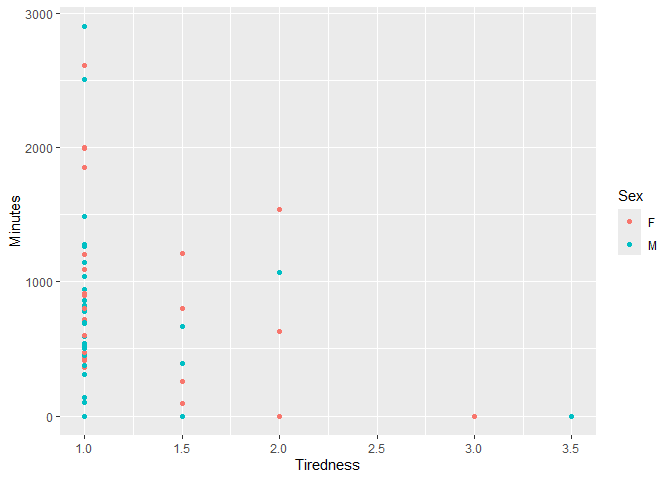
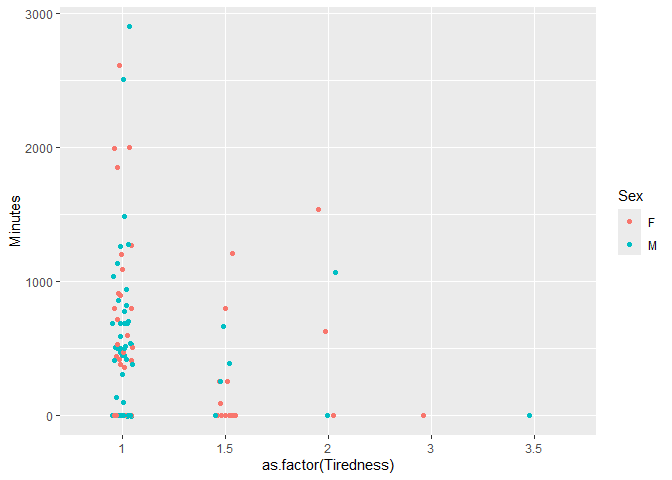
Challenge 10 Submission -- knit files now included.

diff --git a/challenges/c10-islands-pt2-assignment.md b/challenges/c10-islands-pt2-assignment.md
@@ -115,8 +115,8 @@ outcome of a measurement (e.g., drinking coffee before taking a test),
 that’s called an *experimental study*. You need to decide whether your
 study is observational or experimental.
 
-- This is an observational study were we ask how many mintutes of
-  vigerous physical activity per week and how tired the villager is on a
+- This is an observational study were we ask how many minutes of
+  vigorous physical activity per week and how tired the villager is on a
   scale from one to ten.
 
 #### Question / Hypothesis
@@ -303,8 +303,9 @@ other_result
 
 The first variable, minutes of physical activity in the past week, that
 we were looking at did not have enough power to be differentiated
-between the towns. Due to this lack of power, we collected additional
-data focusing one town. 
+between the towns. We can prove this by our confidence interval
+including zero. Due to this lack of power, we collected additional data
+focusing one town. 
 
 ### **New data**
 
@@ -369,45 +370,6 @@ comes next in this report.
 ``` r
 df_islanders %>%
   ggplot(aes(
-    x = Tiredness,
-    y = Minutes,
-    color = Sex
-  )) +
-  geom_point()
-```
-
-![](c10-islands-pt2-assignment_files/figure-gfm/unnamed-chunk-3-1.png)<!-- -->
-
-``` r
-df_islanders %>%
-  ggplot(aes(
-    x = as.factor(Tiredness),
-    y = Minutes,
-  )) +
-  geom_boxplot()
-```
-
-![](c10-islands-pt2-assignment_files/figure-gfm/unnamed-chunk-4-1.png)<!-- -->
-
-``` r
-df_islanders %>%
-  ggplot(aes(
-    x = as.factor(Tiredness),
-    y = Minutes,
-  )) +
-  geom_violin()
-```
-
-    ## Warning: Groups with fewer than two datapoints have been dropped.
-    ## ℹ Set `drop = FALSE` to consider such groups for position adjustment purposes.
-    ## Groups with fewer than two datapoints have been dropped.
-    ## ℹ Set `drop = FALSE` to consider such groups for position adjustment purposes.
-
-![](c10-islands-pt2-assignment_files/figure-gfm/unnamed-chunk-5-1.png)<!-- -->
-
-``` r
-df_islanders %>%
-  ggplot(aes(
     x = as.factor(Tiredness),
     y = Minutes,
     color = Sex
@@ -415,7 +377,18 @@ df_islanders %>%
   geom_jitter(width = 0.1)
 ```
 
-![](c10-islands-pt2-assignment_files/figure-gfm/unnamed-chunk-6-1.png)<!-- -->
+![](c10-islands-pt2-assignment_files/figure-gfm/unnamed-chunk-3-1.png)<!-- -->
+
+``` r
+#TODO 
+df_islanders |> 
+  ggplot(aes(Minutes)) +
+  geom_histogram()
+```
+
+    ## `stat_bin()` using `bins = 30`. Pick better value `binwidth`.
+
+![](c10-islands-pt2-assignment_files/figure-gfm/unnamed-chunk-4-1.png)<!-- -->
 
 ``` r
 df_islanders %>%
@@ -425,7 +398,7 @@ df_islanders %>%
   geom_bar()
 ```
 
-![](c10-islands-pt2-assignment_files/figure-gfm/unnamed-chunk-7-1.png)<!-- -->
+![](c10-islands-pt2-assignment_files/figure-gfm/unnamed-chunk-5-1.png)<!-- -->
 
 ``` r
 df_islanders %>%
@@ -437,44 +410,7 @@ df_islanders %>%
   geom_bar(position = "dodge")
 ```
 
-![](c10-islands-pt2-assignment_files/figure-gfm/unnamed-chunk-8-1.png)<!-- -->
-
-``` r
-df_islanders %>%
-  ggplot(aes(
-    x = Age,
-    y = Sex
-  )) +
-  geom_jitter(height = 0.05, width = 0)
-```
-
-![](c10-islands-pt2-assignment_files/figure-gfm/unnamed-chunk-9-1.png)<!-- -->
-
-``` r
-df_islanders %>%
-  ggplot(aes(
-    x = Age,
-    y = Sex
-  )) +
-  geom_violin()
-```
-
-![](c10-islands-pt2-assignment_files/figure-gfm/unnamed-chunk-10-1.png)<!-- -->
-
-``` r
-df_islanders %>%
-  ggplot(aes(
-    x = Sex,
-    y = Age
-  )) +
-  geom_boxplot()
-```
-
-![](c10-islands-pt2-assignment_files/figure-gfm/unnamed-chunk-11-1.png)<!-- -->
-
-``` r
-# look at houses with 4+ people? plot minutes, plot tiredness (or color?)
-```
+![](c10-islands-pt2-assignment_files/figure-gfm/unnamed-chunk-6-1.png)<!-- -->
 
 ### **q3** Key Analyses
 
@@ -484,10 +420,38 @@ grouped summary statistics (e.g., a proportion for group A, and for
 group B), or visualizations (e.g., a histogram). This section should be
 short, and every analysis should directly relate to q4.
 
-do a t test between the two sexes, see if they have comparable
-populations?
+To see if there is a correlation between tiredness and minutes of
+vigorous physical activity we ran a correlation test. Since the
+distribution of our data is not normal, we used a Spearman correlation
+test. The result of this test is a p-value which is not significant for
+a correlation in this sample.
+
+``` r
+# Run test
+cor.test(
+  df_islanders |> pull(Minutes),
+  df_islanders |> pull(Tiredness),
+  method = "spearman"
+)
+```
+
+    ## Warning in cor.test.default(pull(df_islanders, Minutes), pull(df_islanders, :
+    ## cannot compute exact p-value with ties
+
+    ## 
+    ##  Spearman's rank correlation rho
+    ## 
+    ## data:  pull(df_islanders, Minutes) and pull(df_islanders, Tiredness)
+    ## S = 475792, p-value = 0.3141
+    ## alternative hypothesis: true rho is not equal to 0
+    ## sample estimates:
+    ##         rho 
+    ## -0.08631128
 
 ### **q4** Answers
 
 Connect your Key Analyses to your questions / hypotheses. What did you
 conclude from your study?
+
+We did not find a significant correlation between minutes of exercise in
+the last week and the reported tiredness of an islander.
